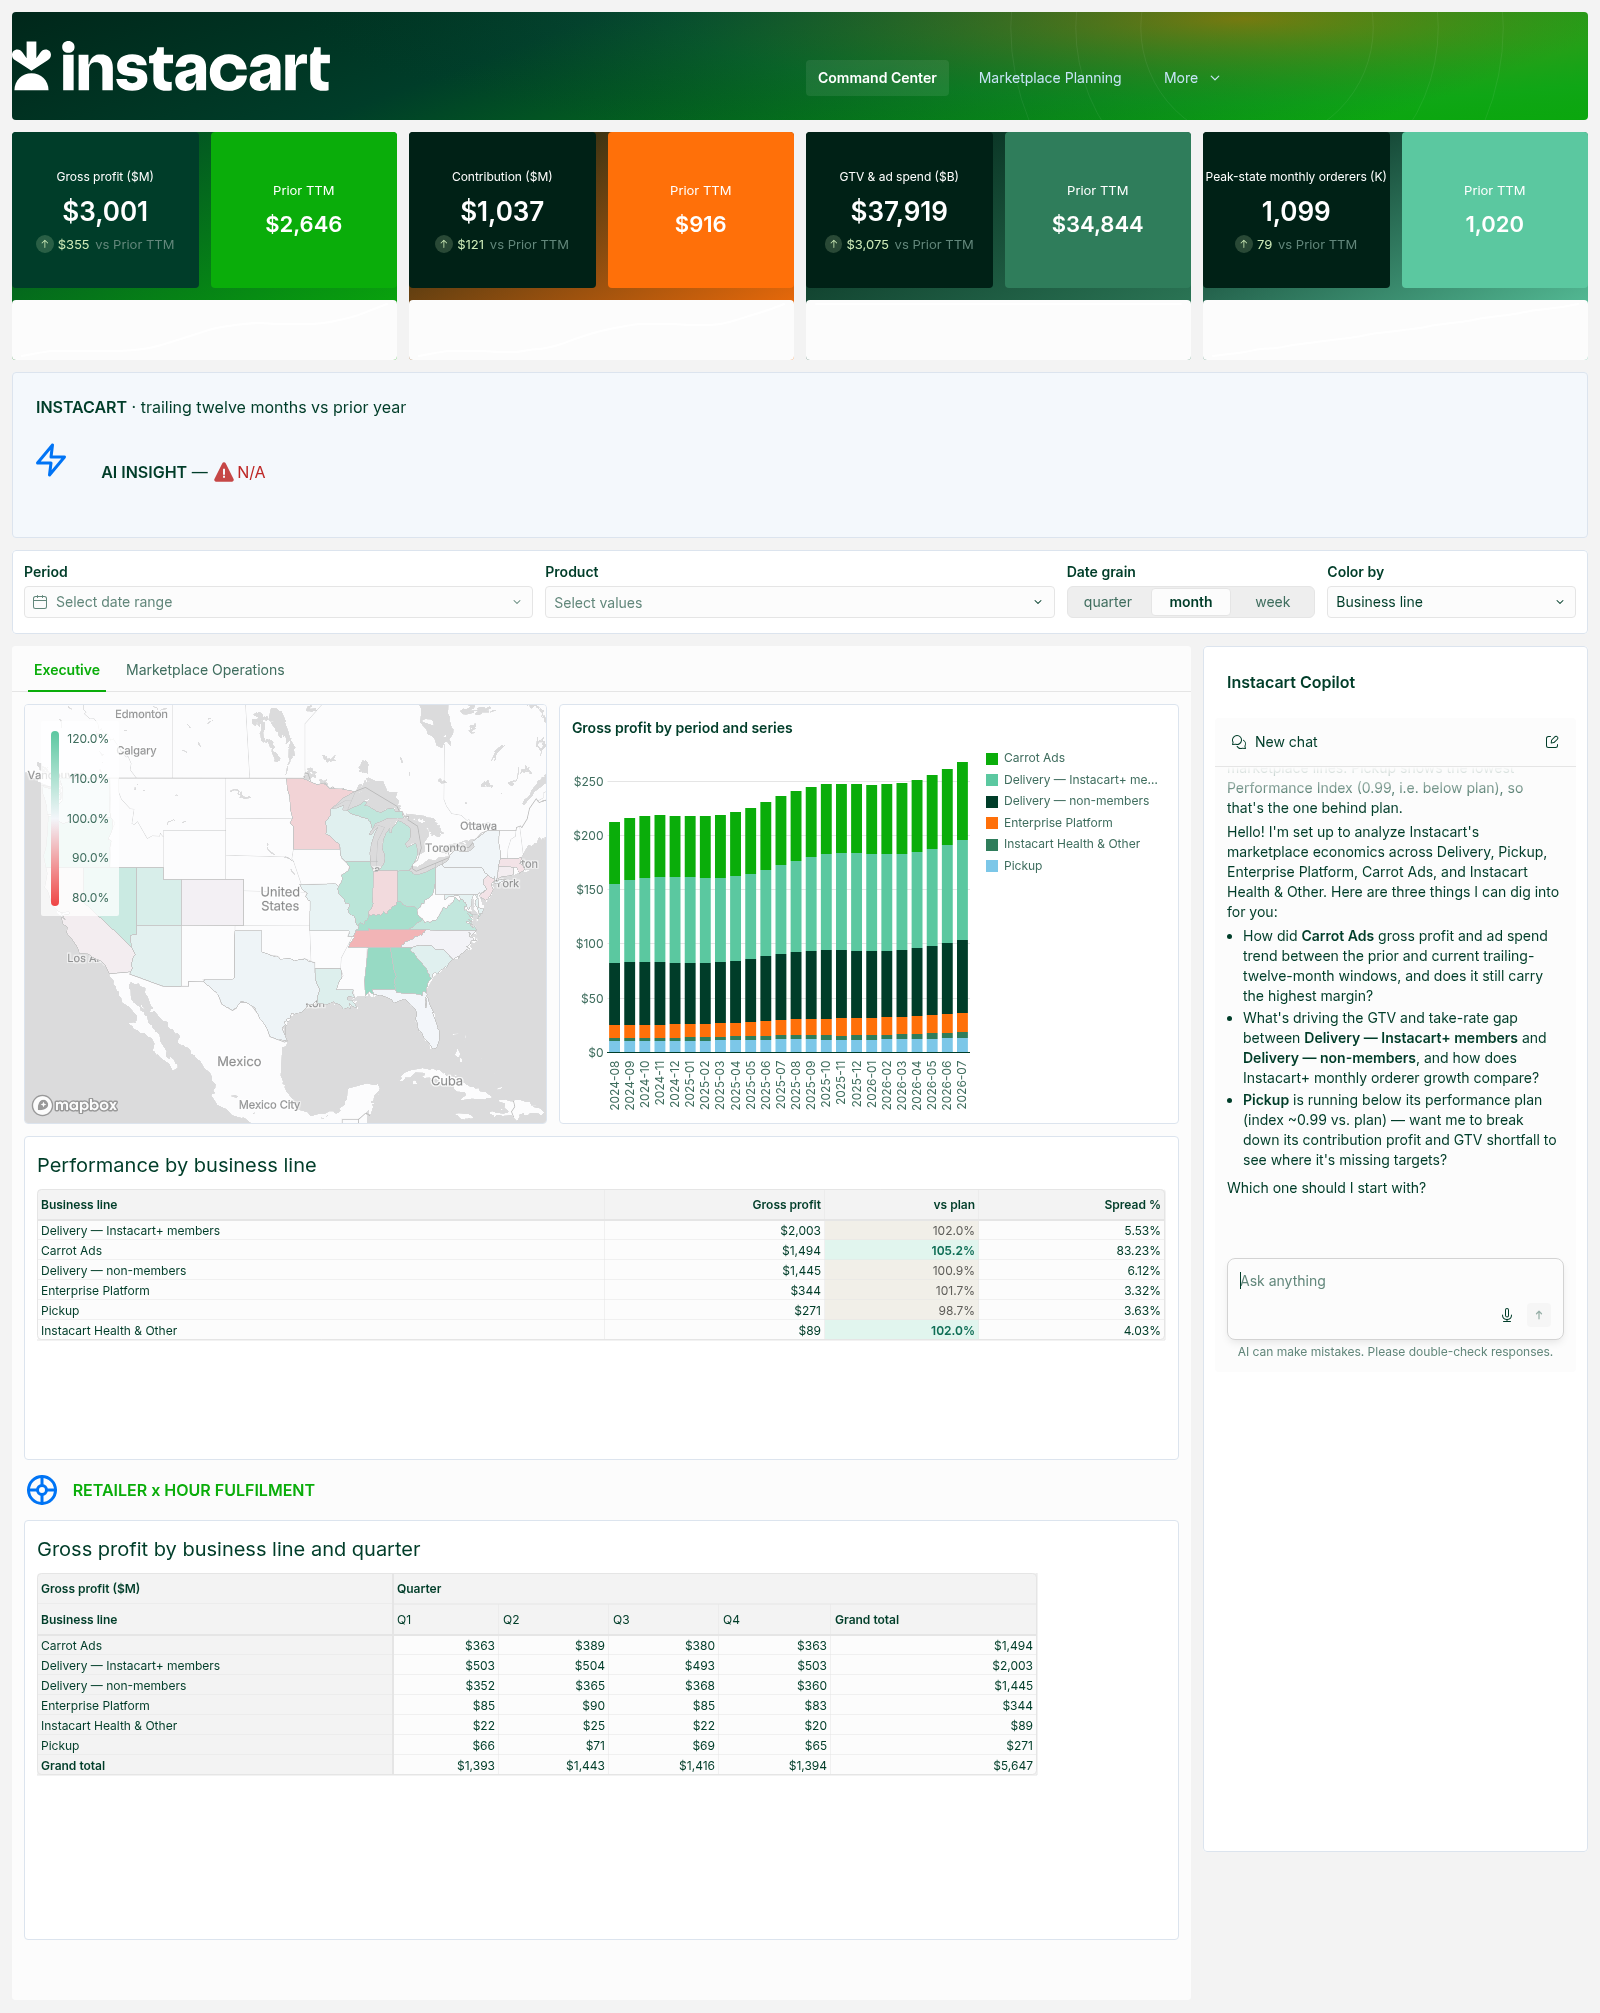
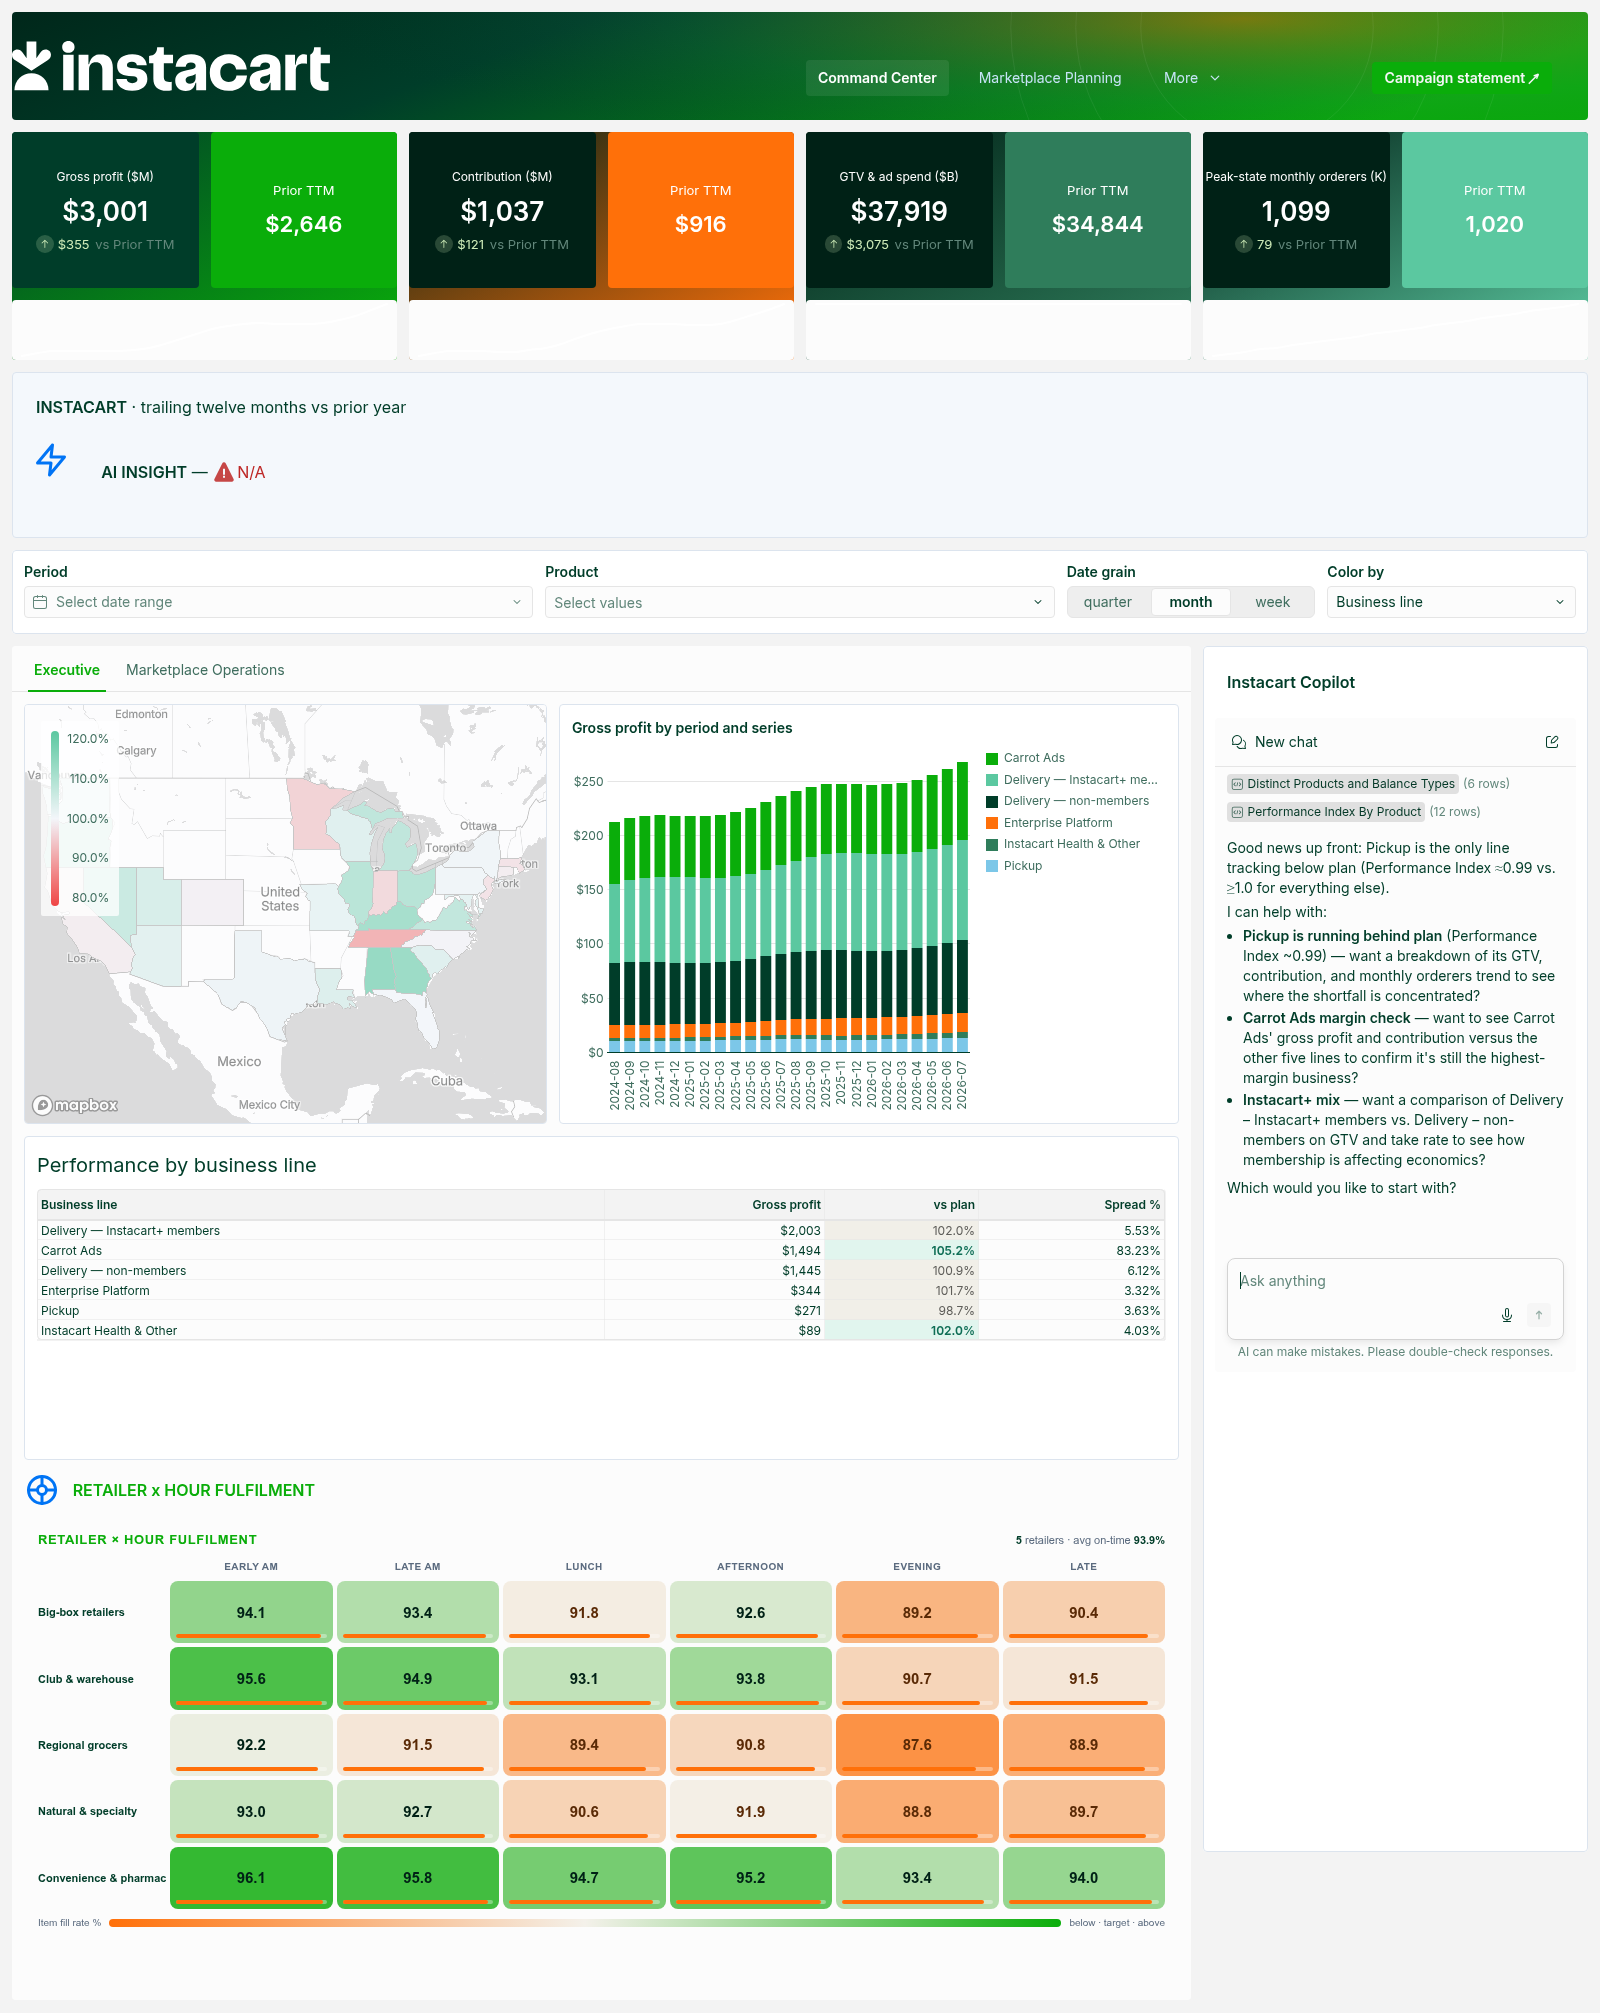
Wire Instacart hero plugin into company config; refresh QA shots

Changed region(s): [[0.0312, 0.7392, 0.75, 0.9548], [0.75, 0.3696, 0.9688, 0.616], [0.8438, 0.0308, 0.9375, 0.0616]]

diff --git a/skills/sigma-company-dashboard-v2/scripts/company.py b/skills/sigma-company-dashboard-v2/scripts/company.py
@@ -4133,11 +4133,10 @@ POP["instacart"] = {"bases": (320, 980, 2400, 5200), "rev_rate": 0.092,
                     "fee_per_product": 40}
 
 # Bespoke hero: retailer-partner x delivery-hour fulfilment heatmap (plugin
-# source lives in plugins/instacart-fulfillment-heatmap). hero is None until it
-# is hosted + registered (POST /v2/plugins); needs push access to the public
-# repo's GitHub Pages, so it is NOT wired in yet.
+# source lives in plugins/instacart-fulfillment-heatmap). hosted on GitHub Pages
+# (Fran-Britschgi/sigma-workbook-skill) and registered on papercranestaging.
 PLUGINS["instacart"] = {
-    "hero": None,
+    "hero": "4e7a5586-9b04-4b8d-9e47-da9f02c94e2a",
     "hero_label": "RETAILER x HOUR FULFILMENT",
     "ticker": None,
     "hero_table": {"name": "Fulfilment Heatmap", "file": "fulfillment_heatmap.sql",
